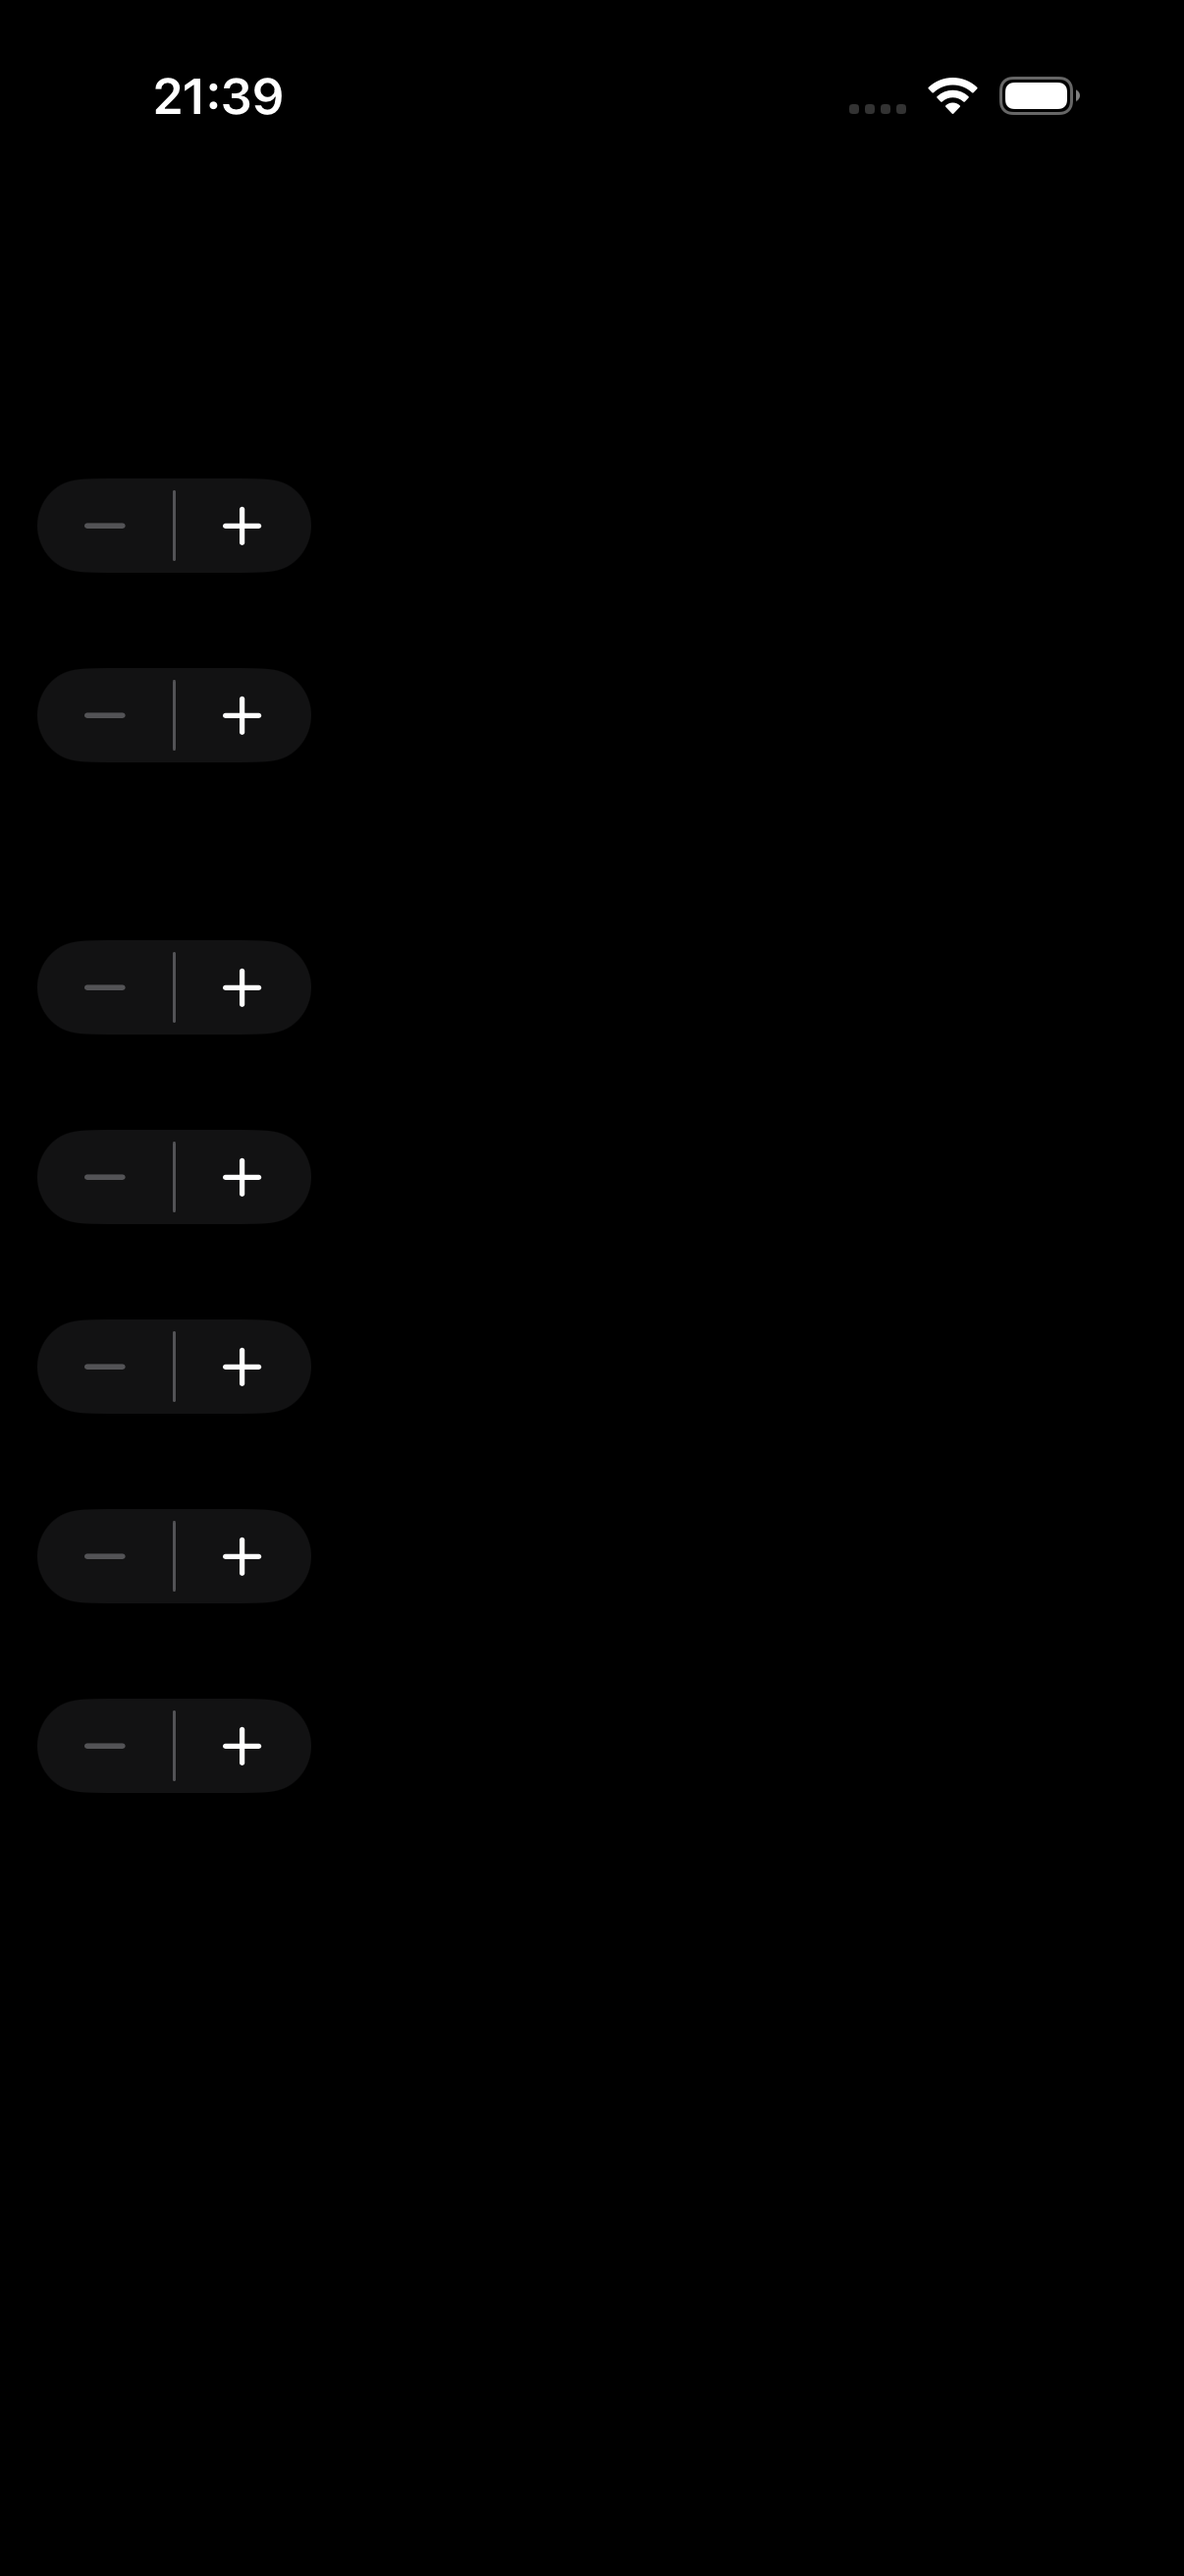
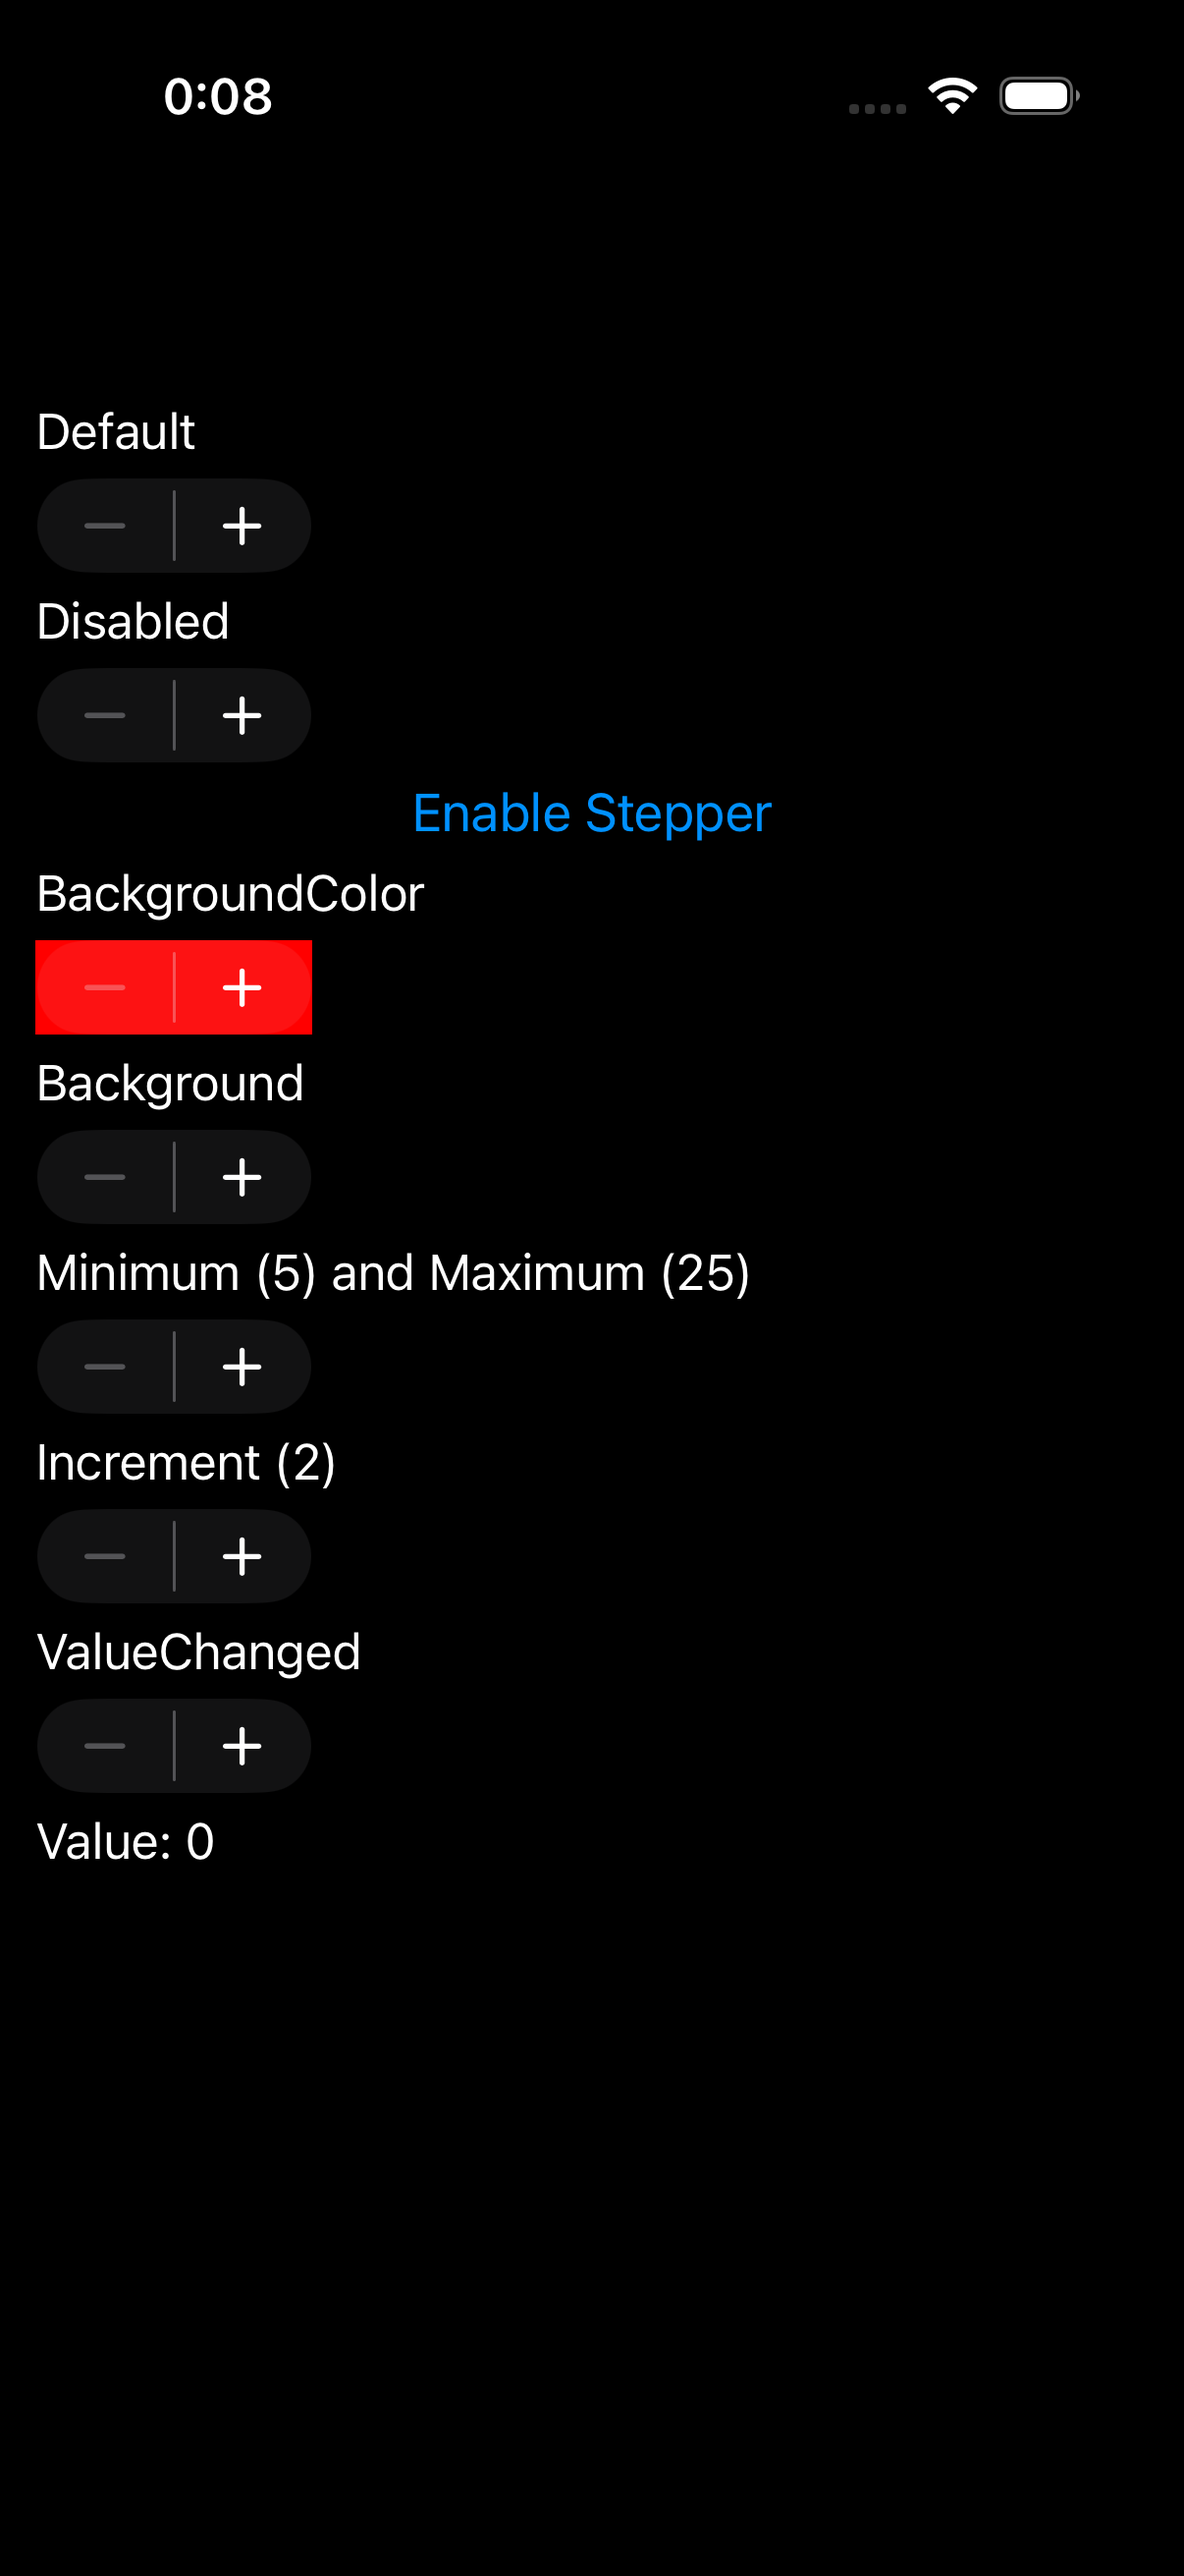
fix(ios,parity): Stepper renders BackgroundColor band behind the +/- buttons
example 11/172 (stepper): labels + blue Enable-Stepper link already render (dark-text
cascade); the missing piece was BackgroundColor=Red. The iOS stepper deferred
update_background, so the band was absent. Added it (mirrors slider): a UIStepper has
no bezel, so apply_background paints the band — solid fills the backing layer, gradient
installs a sublayer the new MauiIosStepper.layoutSubviews re-sizes via resize_background_layers.

Verified: BackgroundColor=Red now fills the stepper both themes (sim-captured); 10
stepper ios tests pass; clang-tidy 0. Residual is a demo-layout difference (C# compare
page styles bold labels + a full-width red band; the C++ gallery uses regular labels +
an intrinsic-width stepper — the port renders BackgroundColor correctly into the frame).
Tracker: stepper diff->minor (11 minor).

diff --git a/port/cpp/src/platform/ios/stepper_handler.mm b/port/cpp/src/platform/ios/stepper_handler.mm
@@ -24,6 +24,7 @@
 #include <string_view>
 
 #include "ios_view_ops.hpp"
+#include "ios_visual_ops.hpp"
 #include "maui/core/flow_direction.hpp"
 #include "maui/core/i_stepper.hpp"
 #include "maui/core/stepper_handler.hpp"
@@ -145,6 +146,21 @@ namespace
 }
 @end
 
+// MauiIosStepper — the UIStepper the handler presents. Its layoutSubviews override re-sizes any gradient/
+// image background sublayer apply_background installed (a solid BackgroundColor needs no resize — it is the
+// backing layer's backgroundColor), so a Background brush fills the band behind the −|+ buttons and tracks
+// bounds. apply_background runs before arrange, when bounds is zero, so the hook is needed for gradients.
+@interface MauiIosStepper : UIStepper
+@end
+
+@implementation MauiIosStepper
+- (void)layoutSubviews
+{
+    [super layoutSubviews];
+    maui::platform::ios::resize_background_layers((__bridge void*)self);
+}
+@end
+
 namespace
 {
     // Key for the associated MauiStepperEventProxy kept alive by the UIStepper (UIControl does not
@@ -186,10 +202,19 @@ namespace maui::core
         as_stepper(native).accessibilityIdentifier = raw != nil ? raw : @"";
     }
 
+    void stepper_platform::update_background(const maui::graphics::paint* value)
+    {
+        // BackgroundColor / Background brush fills the stepper's frame behind the −|+ buttons (MAUI paints
+        // it full-width when the stepper is laid out Fill). The shared helper paints a solid color onto the
+        // backing layer or installs a gradient/image sublayer (MauiIosStepper.layoutSubviews keeps it sized);
+        // a null paint clears it.
+        maui::platform::ios::apply_background(native, value);
+    }
+
     std::unique_ptr<stepper_platform> stepper_handler::create_platform_view()
     {
         auto platform = std::make_unique<stepper_platform>();
-        UIStepper* const native = [[UIStepper alloc] initWithFrame:CGRectZero];
+        UIStepper* const native = [[MauiIosStepper alloc] initWithFrame:CGRectZero];
         platform->native = (__bridge_retained void*)native; // the void* slot owns one reference
         return platform;
     }

diff --git a/port/cpp/include/maui/core/stepper_handler.hpp b/port/cpp/include/maui/core/stepper_handler.hpp
@@ -85,6 +85,9 @@ namespace maui::core
         void update_opacity(double value) override;
         void update_is_enabled(bool value) override;
         void update_automation_id(std::string_view value) override;
+        // BackgroundColor / Background brush IS pushed to the UIStepper — the band behind the −|+ buttons
+        // (the shared apply_background; MauiIosStepper.layoutSubviews keeps a gradient/image fill sized).
+        void update_background(const maui::graphics::paint* value) override;
         // FlowDirection is NOT a platform-struct update_* override here: the handler mapper's
         // "flow_direction" key (map_flow_direction) overrides the shared view_mapper's generic push, so
         // it resolves the direction and applies it (via ios_view_ops::apply_flow_direction) directly —

diff --git a/port/cpp/docs/comparison/README.md b/port/cpp/docs/comparison/README.md
@@ -2,7 +2,7 @@
 
 Theme-matched iOS comparison: each page rendered by **real .NET MAUI** vs the **C++ port**, on the same iPhone 17 simulator, compared **light-vs-light** and **dark-vs-dark**. Both stacks render native-default controls + the system font (the C# app's `dotnet new maui` default `Styles.xaml` + OpenSans are stripped; appearance forced via `MAUI_THEME` / `MAUI_APPEARANCE`). Goal: pixel-perfect parity, fixed example-by-example.
 
-**Progress: 0 / 172 🟢 matched** · 10 🟡 minor · 55 🔴 diff · 107 ⬜ pending
+**Progress: 0 / 172 🟢 matched** · 11 🟡 minor · 54 🔴 diff · 107 ⬜ pending
 
 Status legend: 🟢 pixel-match (both themes) · 🟡 minor diff · 🔴 notable diff to fix · ⬜ not yet reviewed. Per-theme verdicts in `parity_status.json`.
 
@@ -22,7 +22,7 @@ Rows are in **fix order** (top → bottom): foundational single controls first (
 | 8 | Time Picker | 🟡<br>L:minor<br>D:minor | ![](csharp_ios_light/time_picker.png) | ![](cpp_ios_light/time_picker.png) | ![](csharp_ios_dark/time_picker.png) | ![](cpp_ios_dark/time_picker.png) |
 | 9 | Pickers | 🟡<br>L:minor<br>D:minor | ![](csharp_ios_light/pickers.png) | ![](cpp_ios_light/pickers.png) | ![](csharp_ios_dark/pickers.png) | ![](cpp_ios_dark/pickers.png) |
 | 10 | Slider | 🟡<br>L:minor<br>D:minor | ![](csharp_ios_light/slider.png) | ![](cpp_ios_light/slider.png) | ![](csharp_ios_dark/slider.png) | ![](cpp_ios_dark/slider.png) |
-| 11 | Stepper | 🔴<br>L:diff<br>D:diff | ![](csharp_ios_light/stepper.png) | ![](cpp_ios_light/stepper.png) | ![](csharp_ios_dark/stepper.png) | ![](cpp_ios_dark/stepper.png) |
+| 11 | Stepper | 🟡<br>L:minor<br>D:minor | ![](csharp_ios_light/stepper.png) | ![](cpp_ios_light/stepper.png) | ![](csharp_ios_dark/stepper.png) | ![](cpp_ios_dark/stepper.png) |
 | 12 | Switch | ⬜<br>L:pending<br>D:pending | ![](csharp_ios_light/switch.png) | ![](cpp_ios_light/switch.png) | ![](csharp_ios_dark/switch.png) | ![](cpp_ios_dark/switch.png) |
 | 13 | Check Box | 🔴<br>L:diff<br>D:diff | ![](csharp_ios_light/check_box.png) | ![](cpp_ios_light/check_box.png) | ![](csharp_ios_dark/check_box.png) | ![](cpp_ios_dark/check_box.png) |
 | 14 | Progress Bar | ⬜<br>L:pending<br>D:pending | ![](csharp_ios_light/progress_bar.png) | ![](cpp_ios_light/progress_bar.png) | ![](csharp_ios_dark/progress_bar.png) | ![](cpp_ios_dark/progress_bar.png) |
